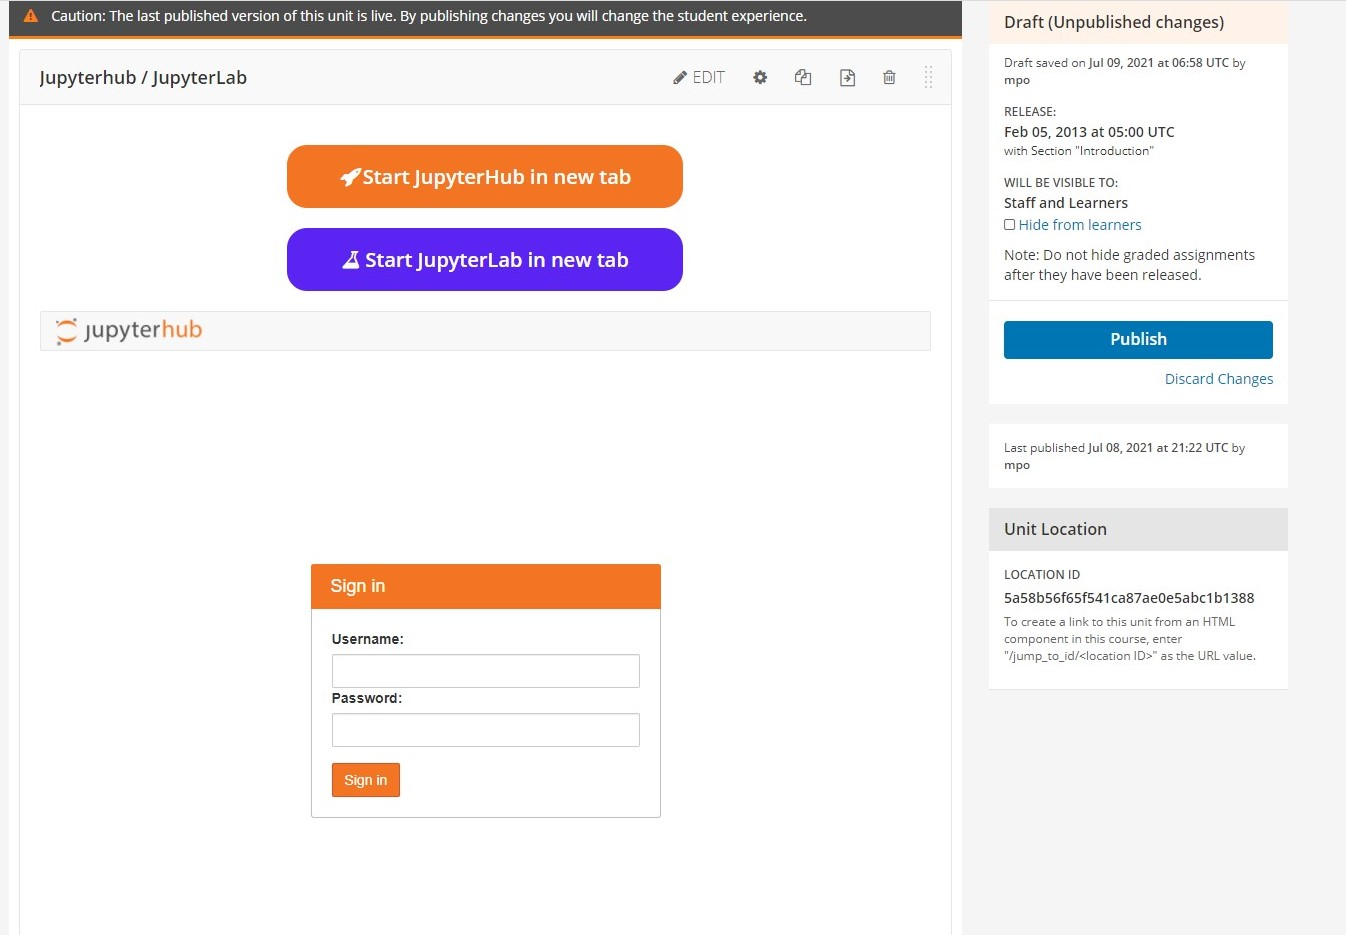
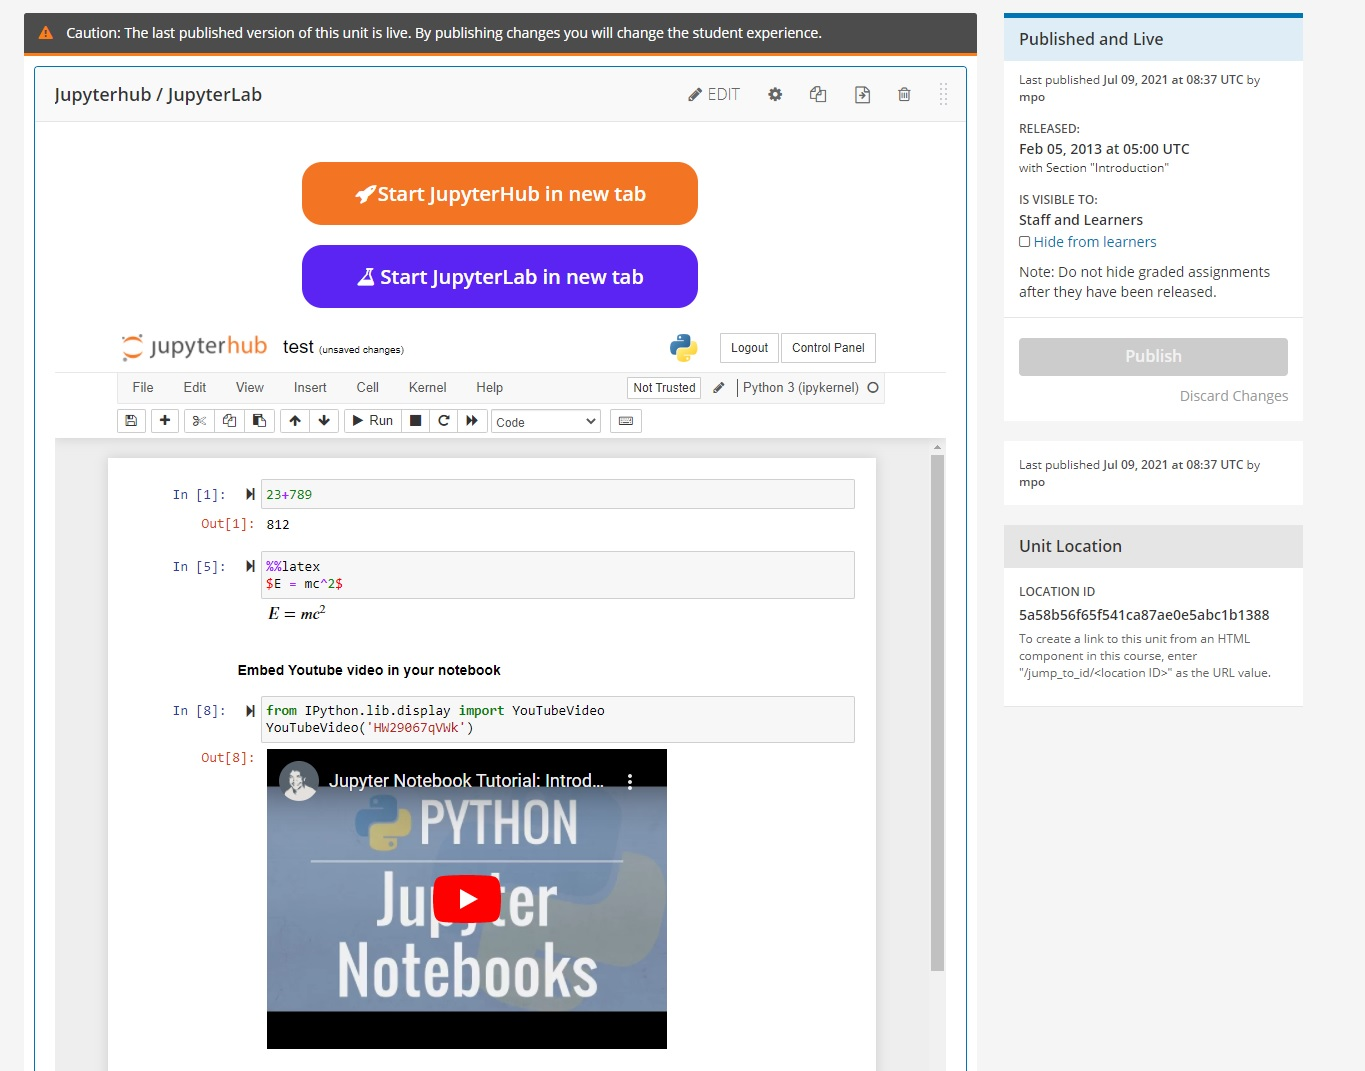
Demo notebook

Changed region(s): [[0.0312, 0.1241, 0.9673, 1.0], [0.0, 0.0, 0.9673, 0.4342]]

diff --git a/README.md b/README.md
@@ -29,19 +29,24 @@ Rebuild of openedx takes same time (apx. 20 minute)
 
 Jupyterhub XBlock comes with to main users " student (password: solo) " and " teacher (password: soloadmin) ". You can change password and create mulitable users and administrators, which will be explained soon.
 
-### Create Notebook users:
-
-
-
 - login to studio as a staff or superuser
 - Create a course, than settings=>advanced settings=> Advanced Module List add  `"jupyterhub"` and save
 
 ![](/src/advanced_module.jpg)
-- Now you can use JupyterHub as a Unit, for every type of course. But first, you need to edit your JupyterHub (Name, ButtonText, and your JupyterHub URL, JupyterNotebook URL(you will create this later), JupyterLab URL )
+- Now you can use JupyterHub as a Unit, for every type of course. But first, you need to edit your JupyterHub (Name, ButtonText, JupyterHub URL, JupyterNotebook URL(you will create this later) and JupyterLab URL )
 
 ![](/src/edit_studio.jpg)
-- You need to create
+
+- You need to create a notebook for students view in your course.To do that click to " `Start JupyterHub in new tab`" login as " student " password is "solo". Then New => Python3(ipykernel). dobbel click to "Untitled" and rename it whatever you want.
+
+![](/src/demoNotebook.jpg)
+
+ Copy the URL of your notebook and paste in " Edit=> JupyterNotebook URL" save and refreh your page. Now your notebook is ready to publish.
 
 
 ![](/src/XblockOverview.jpg)
+
+Students can change, edit, share, rename. It may be a good idea to save as a separate notebook, before they start to change it. For eksempel save as "user2_test.ipynb". Doesn't matter all file be located in same folder.
+
+### User administration:
 
